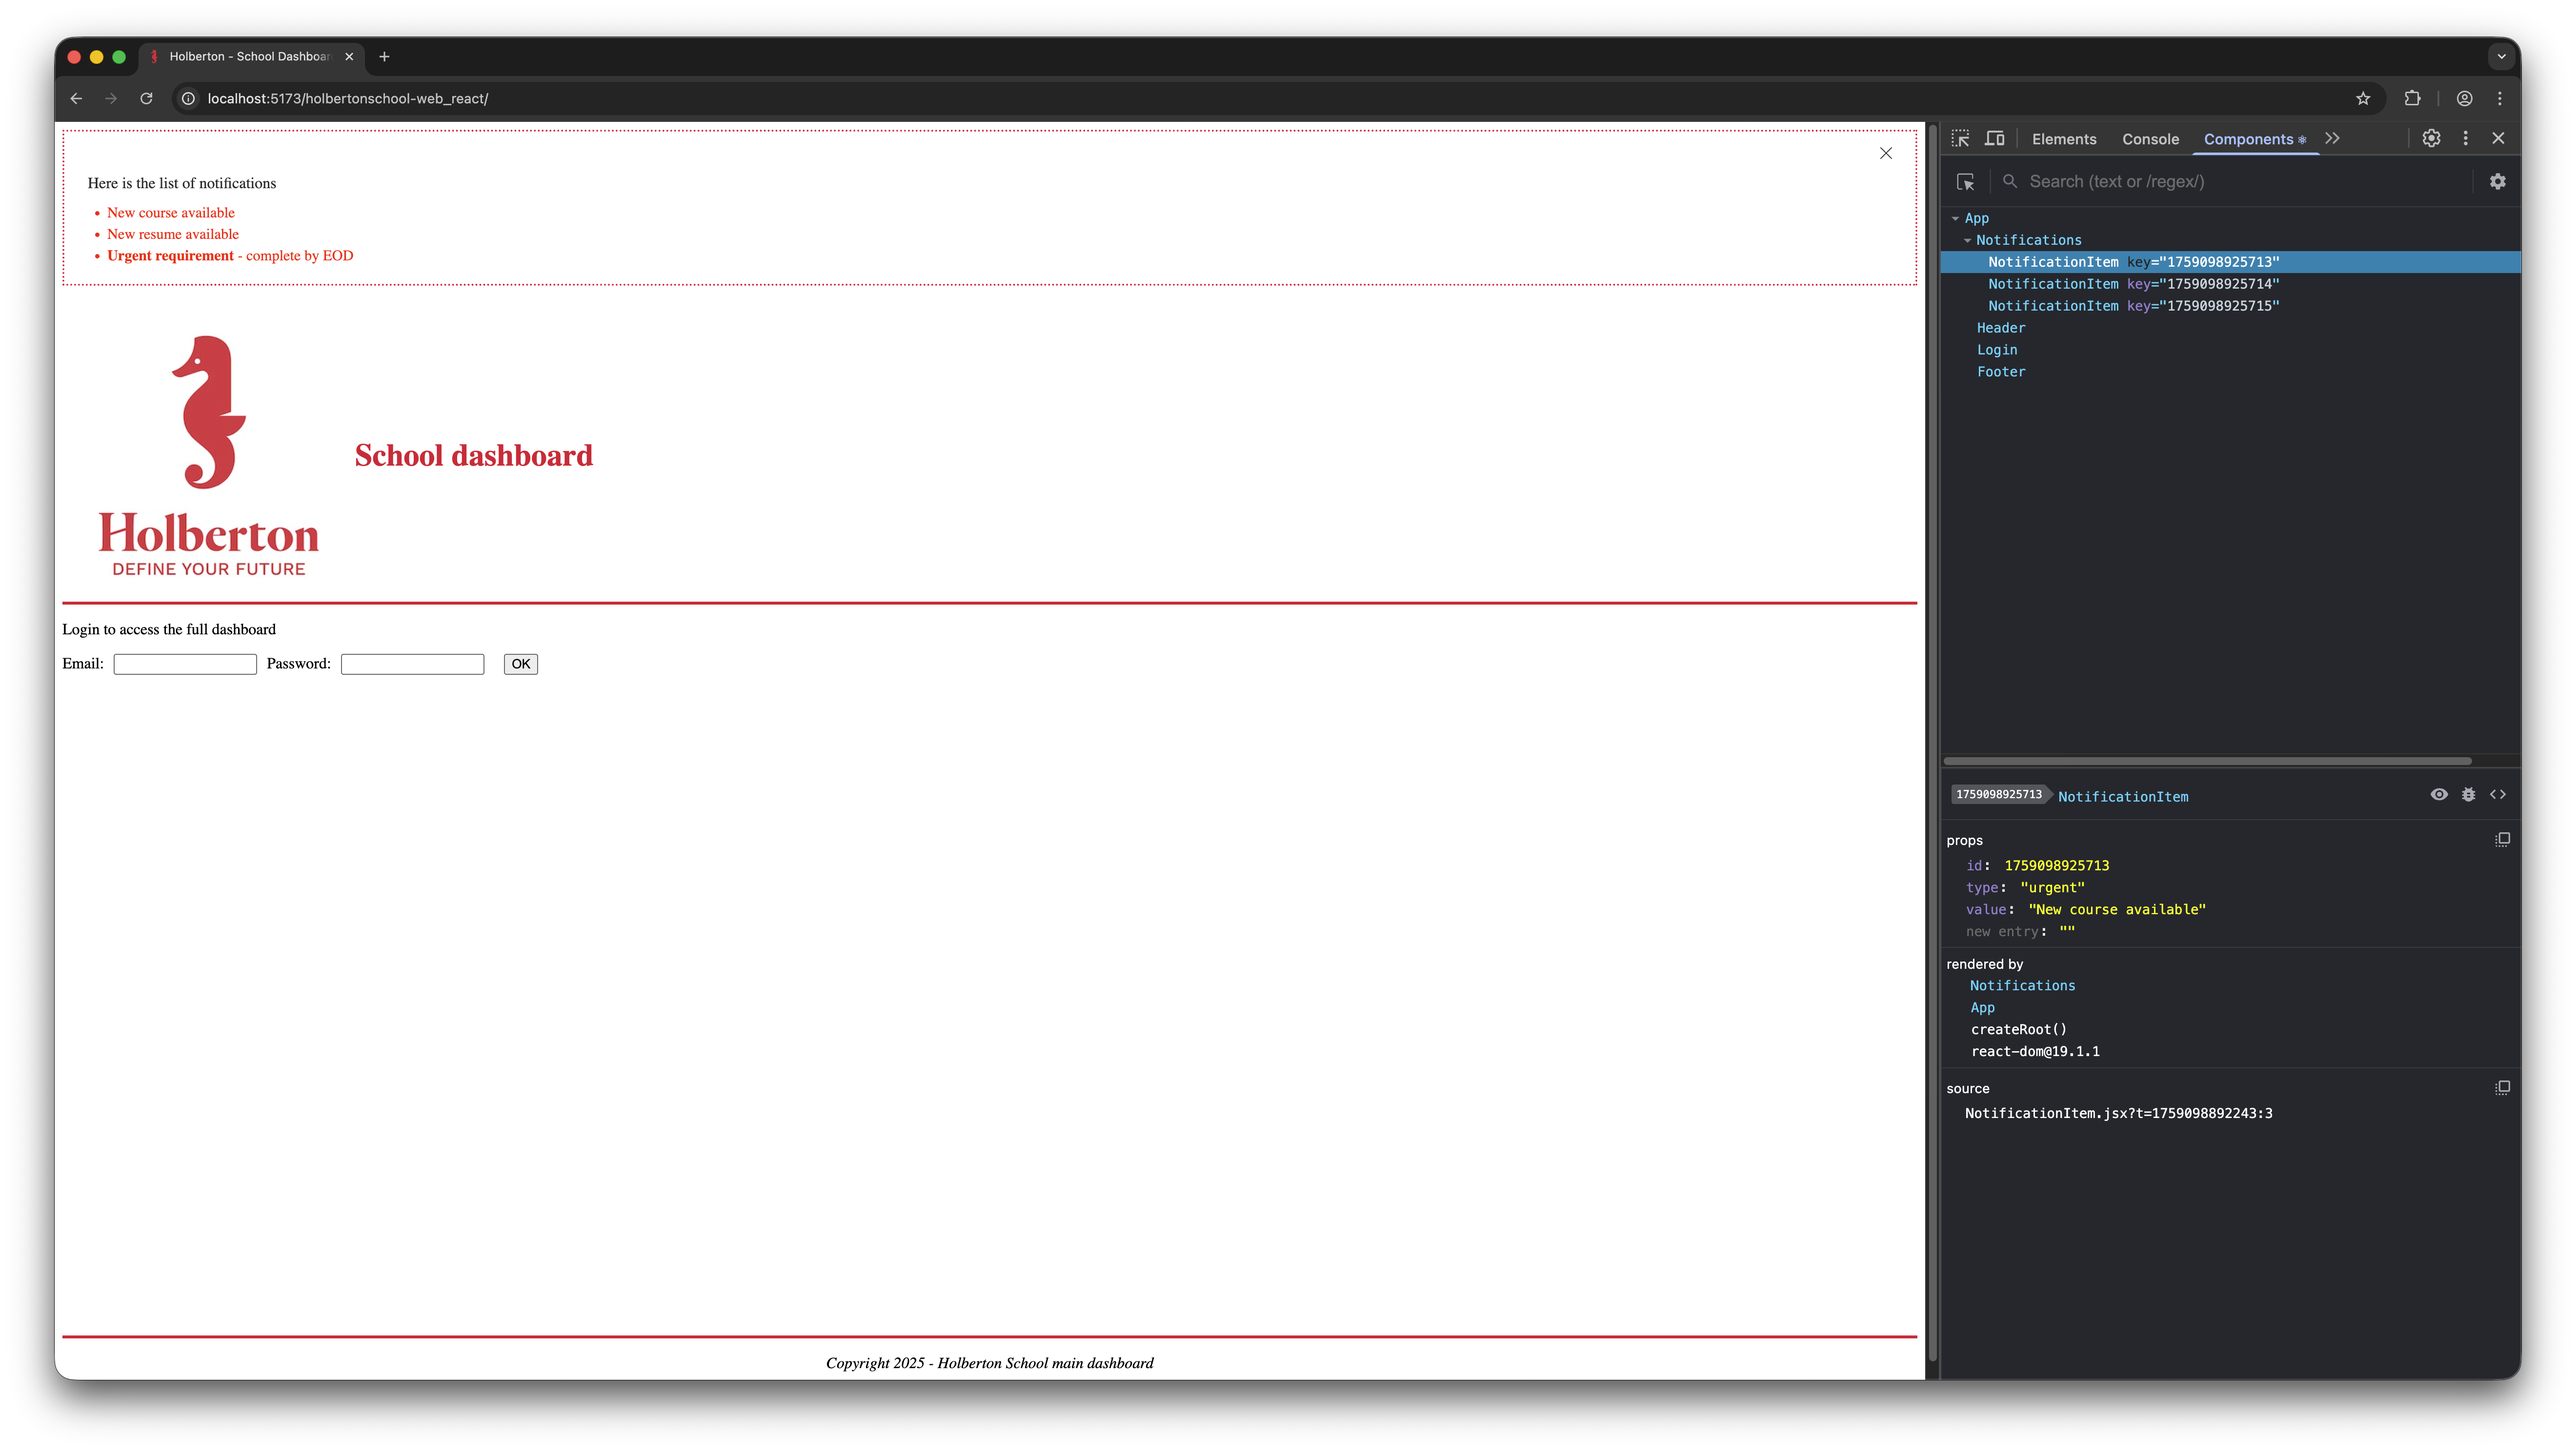
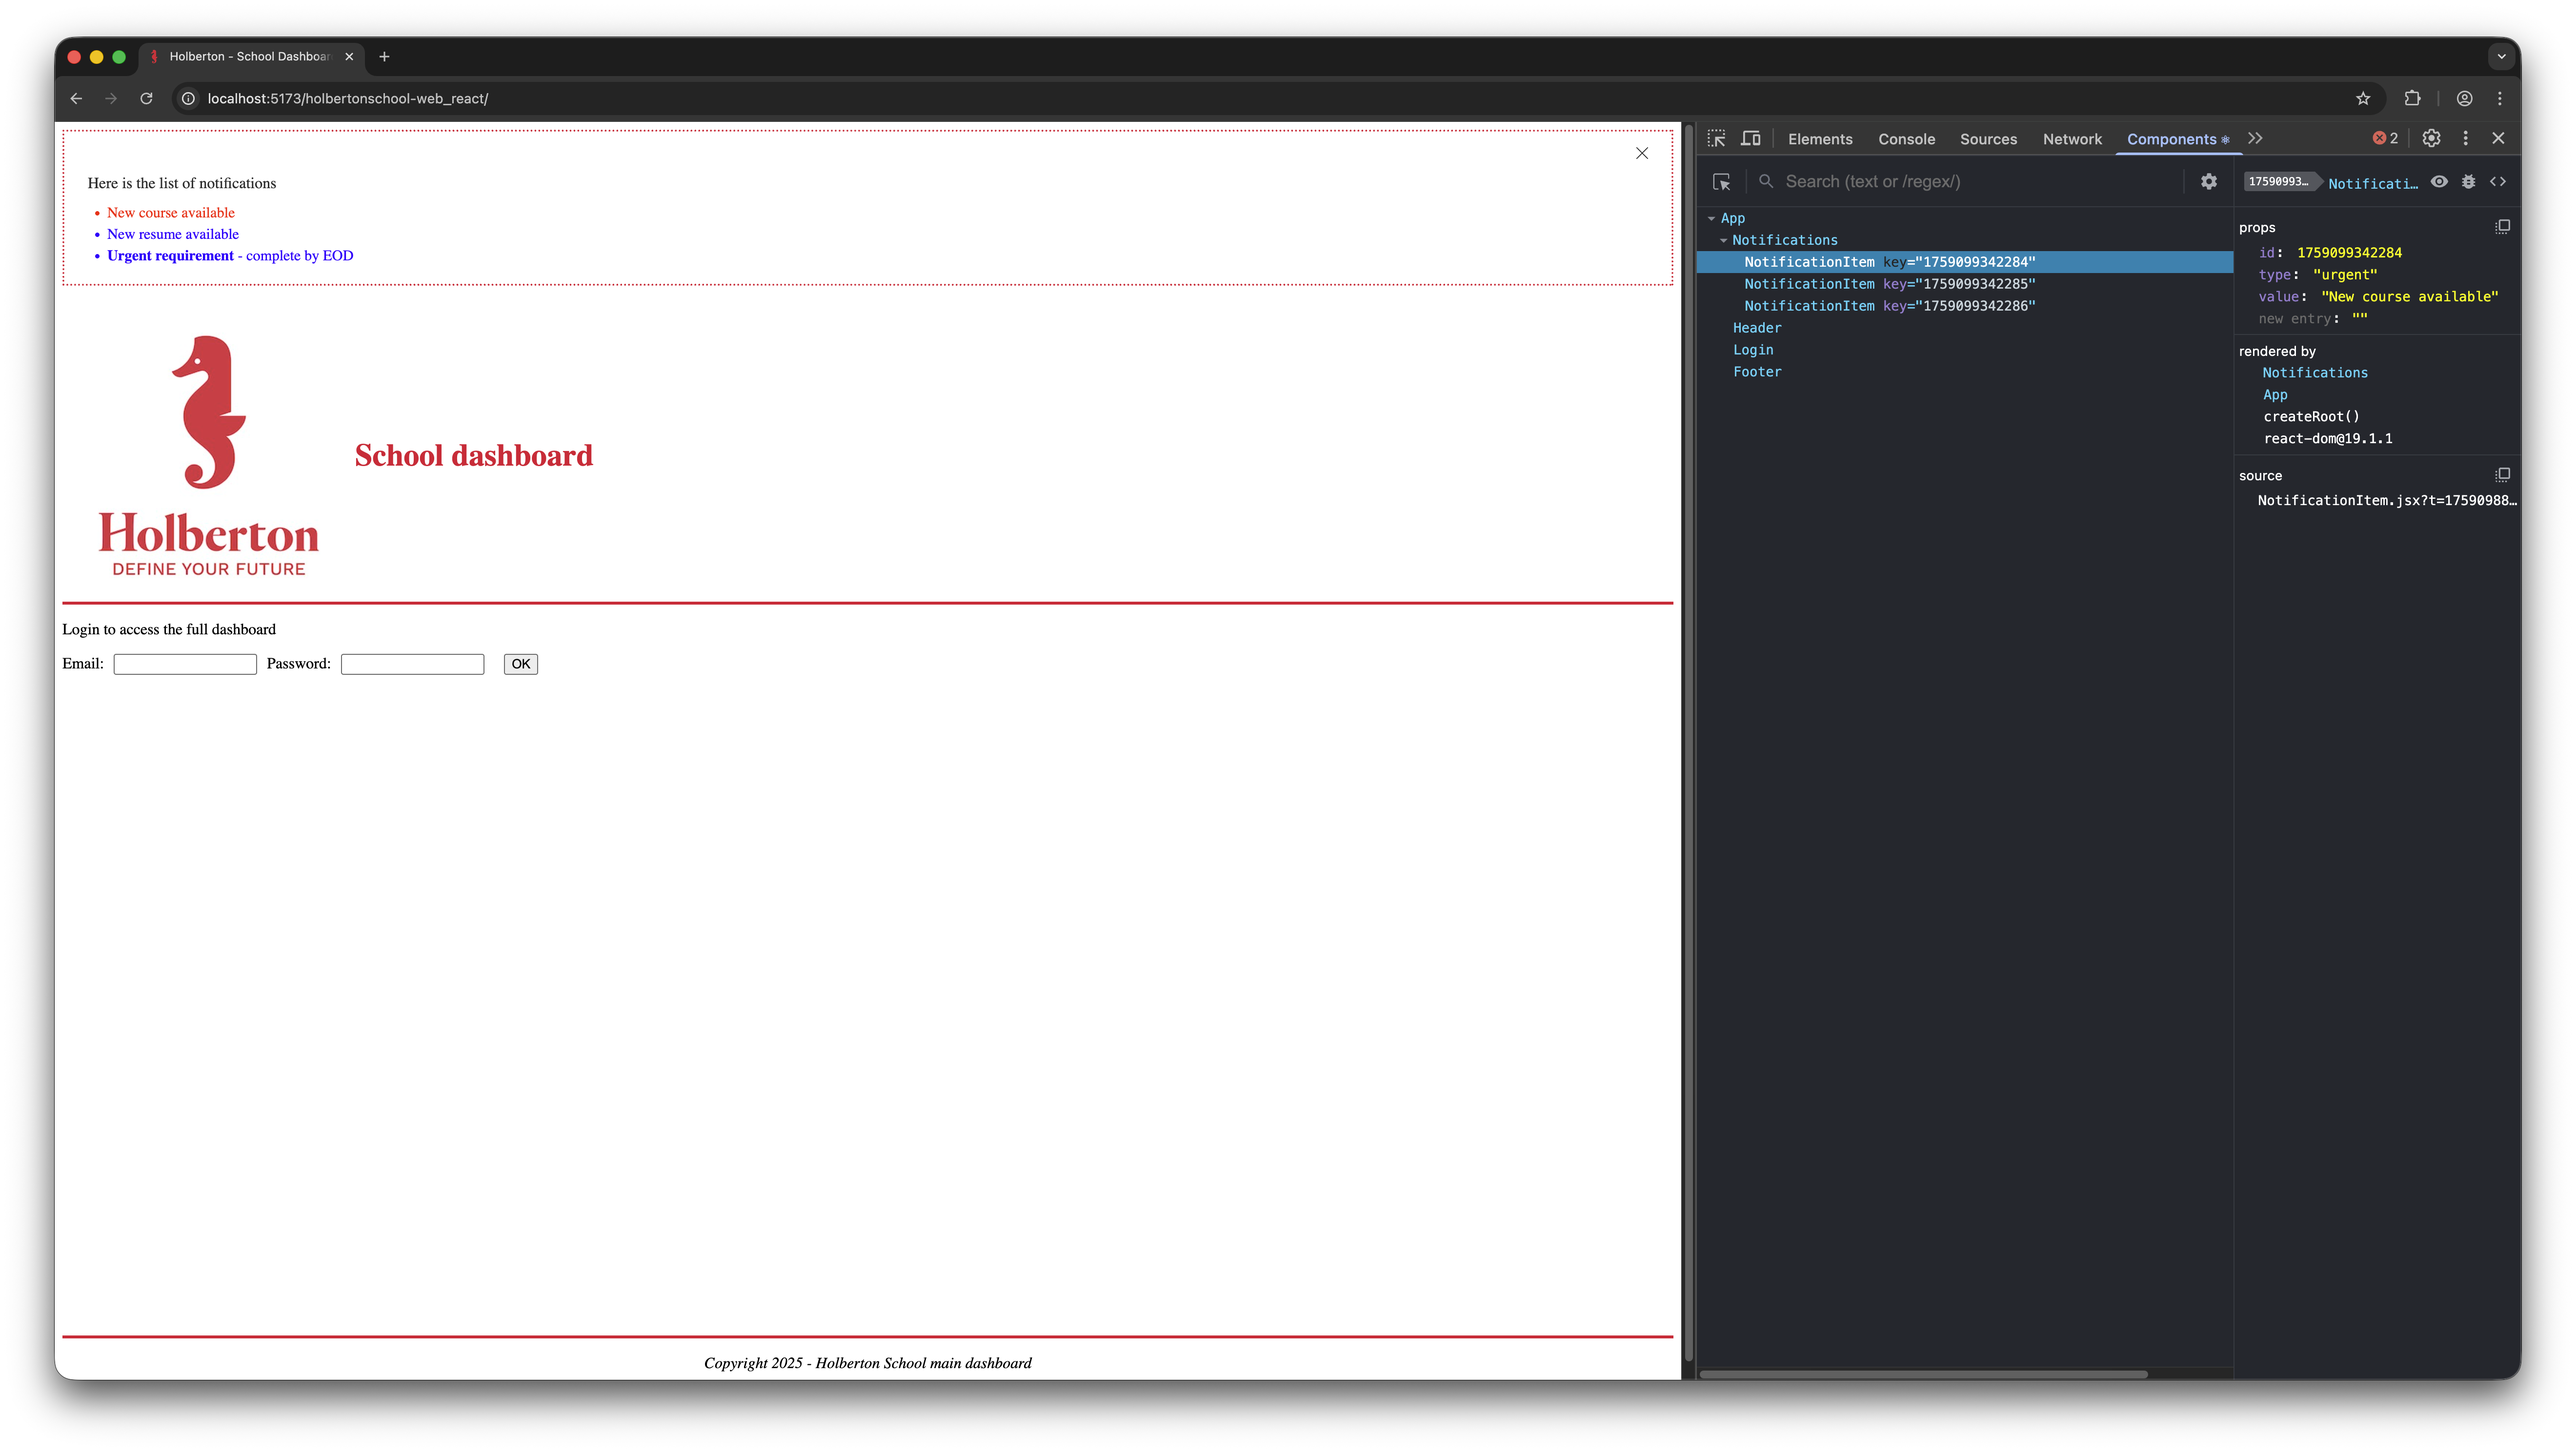
Devtool React extension

diff --git a/react_props/task_3/dashboard/src/App/App.jsx b/react_props/task_3/dashboard/src/App/App.jsx
@@ -17,12 +17,12 @@ function App() {
       },
       {
         id: baseId + 1,
-        type: "urgent",
+        type: "default",
         value: "New resume available",
       },
       {
         id: baseId + 2,
-        type: "urgent",
+        type: "default",
         html: { __html: getLatestNotification() },
       },
     ];
